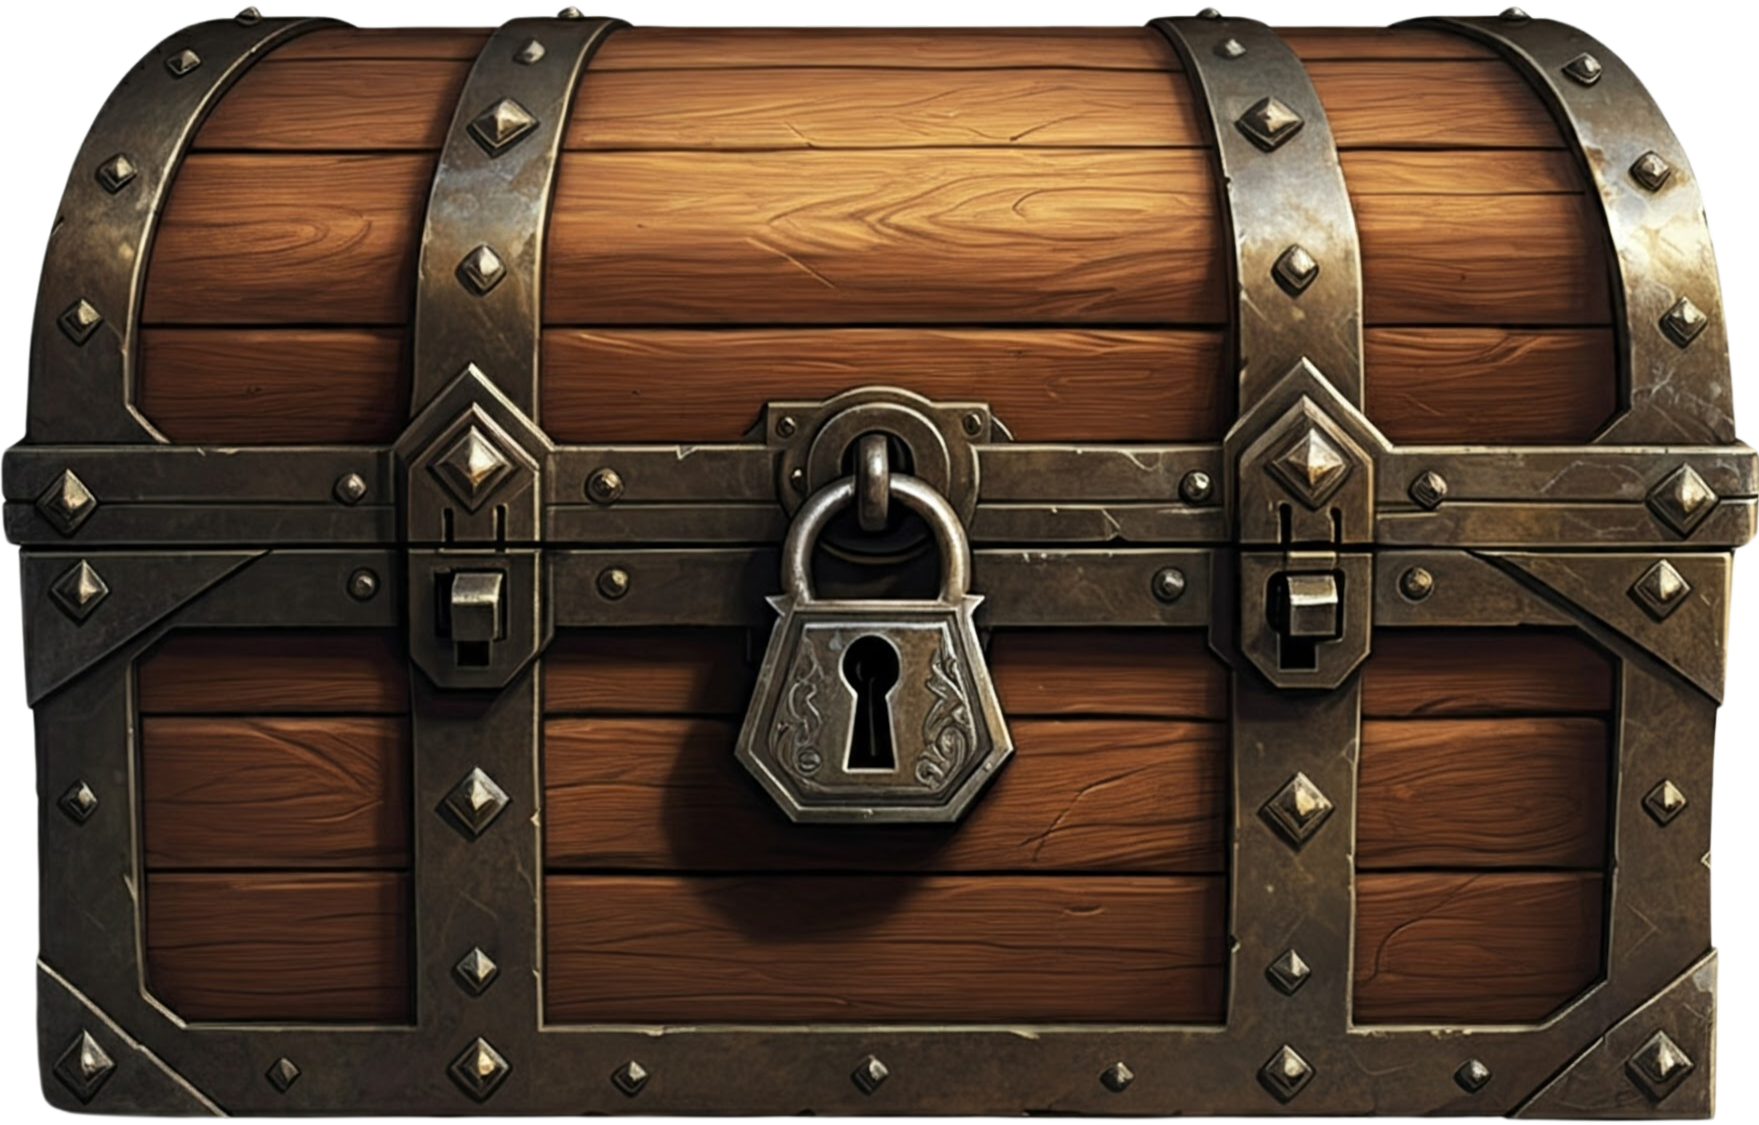
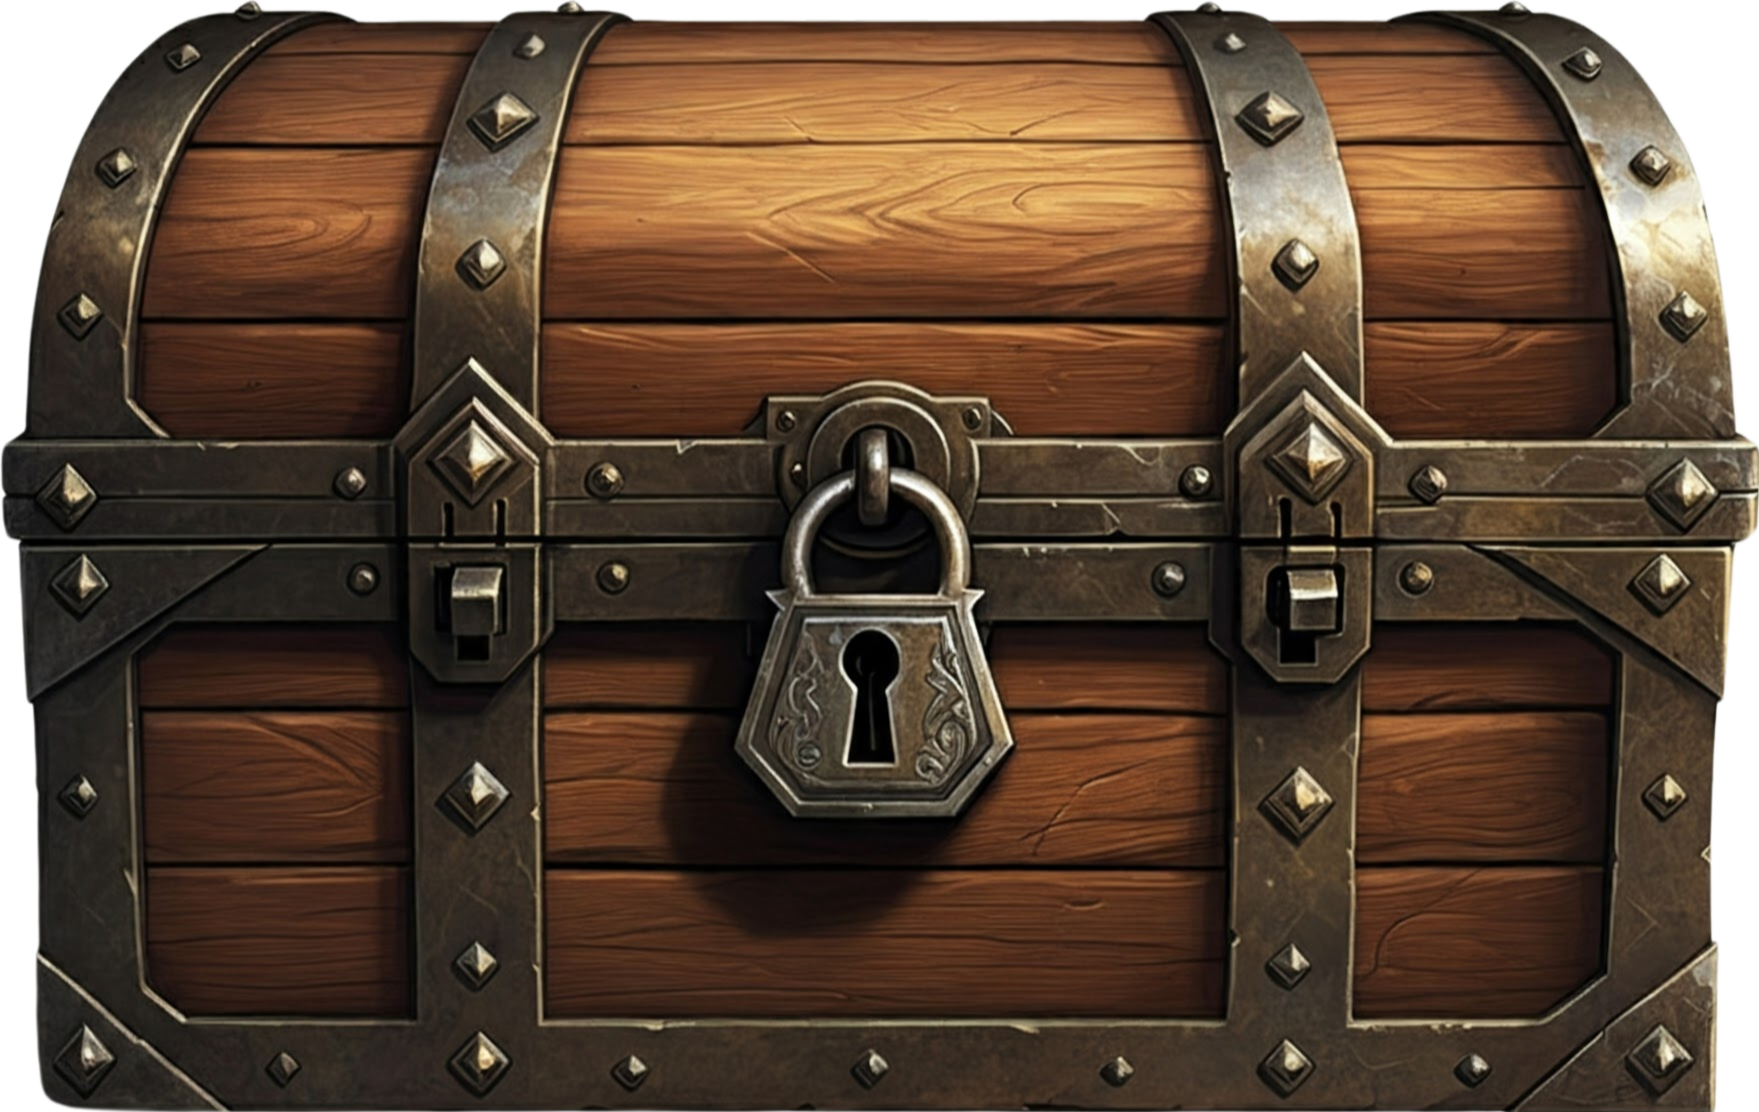
fix: Ajustado tamaño del cofre

diff --git a/index.html b/index.html
@@ -272,10 +272,10 @@
 
 <!-- Pantalla de la Puerta de Música Cerrada -->
 <div id="pantalla-puerta-musica-cerrada" class="pantalla">
-    <h2>Puerta de Música</h2>
+    <h2>Puerta misteriosa</h2>
     <div id="contenedor-puerta-musica">
         <div class="puerta" id="puerta-musica-cerrada" onclick="interactuarPuertaMusica()"></div>
-        <div class="cofre" id="cofre-musica" onclick="interactuarCofreMusica()"></div>
+        <img id="cofre-musica" src="assets/images/cofre.png" alt="Cofre de música" onclick="interactuarCofreMusica()">
     </div>
     <!-- Popup para indicar que se necesita una clave -->
     <div id="popup-clave-musica" class="popup">

diff --git a/styles.css b/styles.css
@@ -816,12 +816,8 @@ input:disabled {
 }
 
 #cofre-musica {
-    width: 90px; /* Mantén el tamaño original del contenedor */
-    height: 90px;
-    background-image: url('assets/images/cofre_musica.png');
-    background-size: contain; /* Ajusta la imagen para que encaje completamente */
-    background-position: center;
-    background-repeat: no-repeat;
+    width: auto; /* La imagen se ajustará automáticamente */
+    height: 90px; /* O ajusta según tus necesidades */
     cursor: pointer;
 }
 
